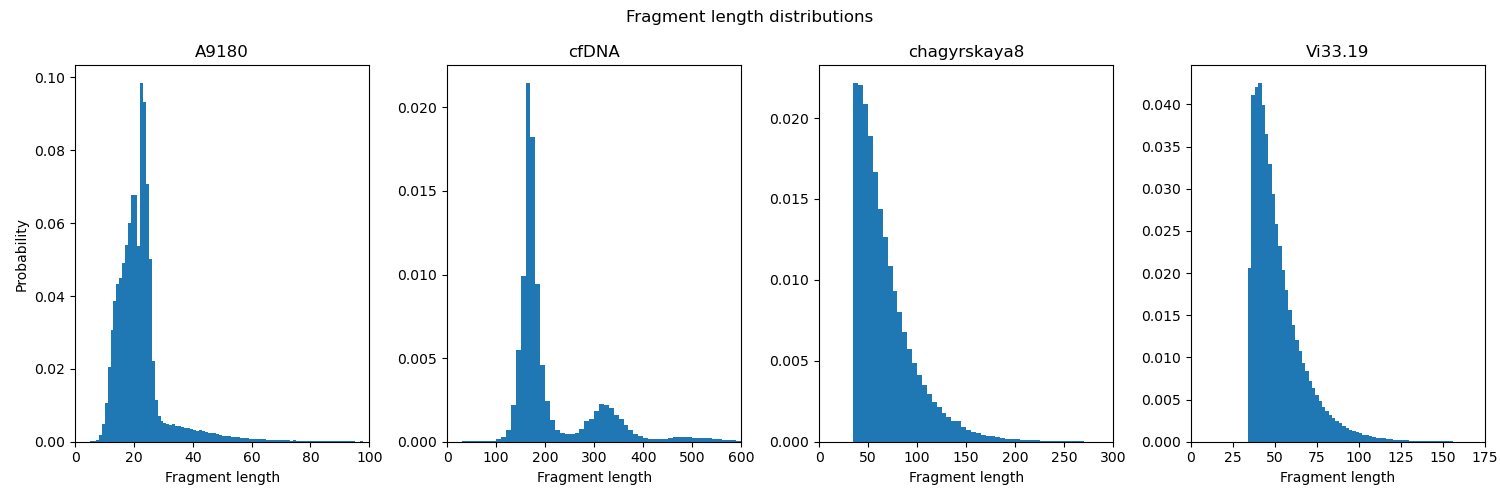
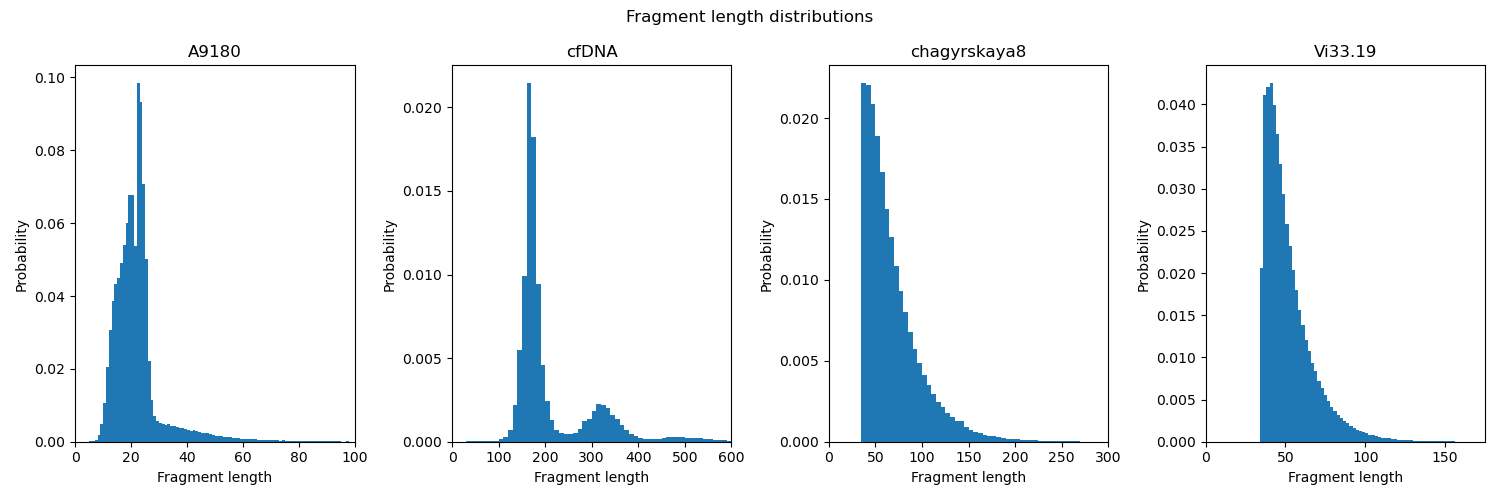
final fix for edit distance bug in plots

diff --git a/fraglen_distributions/plot.py b/fraglen_distributions/plot.py
@@ -50,8 +50,8 @@ def plot_histogram(dist_dir, outdir):
         ax.set_title(f"{distname}")
         ax.set_xlabel('Fragment length')
         ax.set_xlim(x_min, x_max)
+        ax.set_ylabel('Probability')
         
-    axes[0].set_ylabel('Probability')
     fig.suptitle(f"Fragment length distributions")
     fig.tight_layout()
     plt.savefig(f"{outdir}/fraglen_histograms.png", 
@@ -76,11 +76,11 @@ def get_edit_distance_matrix(df):
                 if edit_dist < 5:
                     occurences_per_edit_distance[int(edit_dist)] = percent
                 elif edit_dist <= 10:
-                    occurences_per_edit_distance[-1] += percent
+                    occurences_per_edit_distance[-3] += percent
                 elif edit_dist <= 20:
                     occurences_per_edit_distance[-2] += percent
                 else:
-                    occurences_per_edit_distance[-3] += percent
+                    occurences_per_edit_distance[-1] += percent
                     
         edit_distance_matrix.append(occurences_per_edit_distance)
     return list(enumerate(zip(*edit_distance_matrix)))

diff --git a/fragment_lengths/plot.py b/fragment_lengths/plot.py
@@ -125,14 +125,14 @@ def plot_edit_distance_plot(program, frag_len, dropped_percent, edit_distances,
     ax1.set_yticks(range(0,101,10))
     # Add a line at the read length
     ax1.plot([125.5, 125.5], [0, 100], color='green', linestyle='--', lw=1)
-    ax1.text(124, 80, f"raw read length", color='green', fontsize=7,
+    ax1.text(124, 80, f"read length", color='green', fontsize=7,
              rotation=90, rotation_mode='anchor')
     # Add grid
     ax1.grid(alpha=0.5)
     ax2.grid(alpha=0.5)
     # Add labels, title
     ax1.set_xlabel('Fragment lengths')
-    ax1.set_ylabel('Percentage')
+    ax1.set_ylabel('Percentage of simulated fragments')
     ax1.set_title(f"{program}, merged reads")
     # Add legend and change order
     handles, labels = plt.gca().get_legend_handles_labels()
